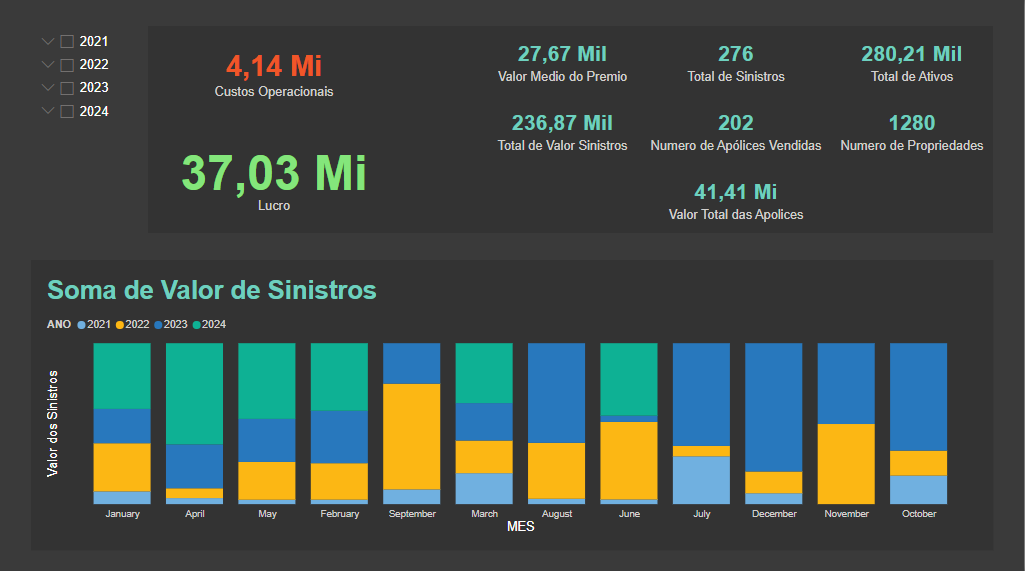
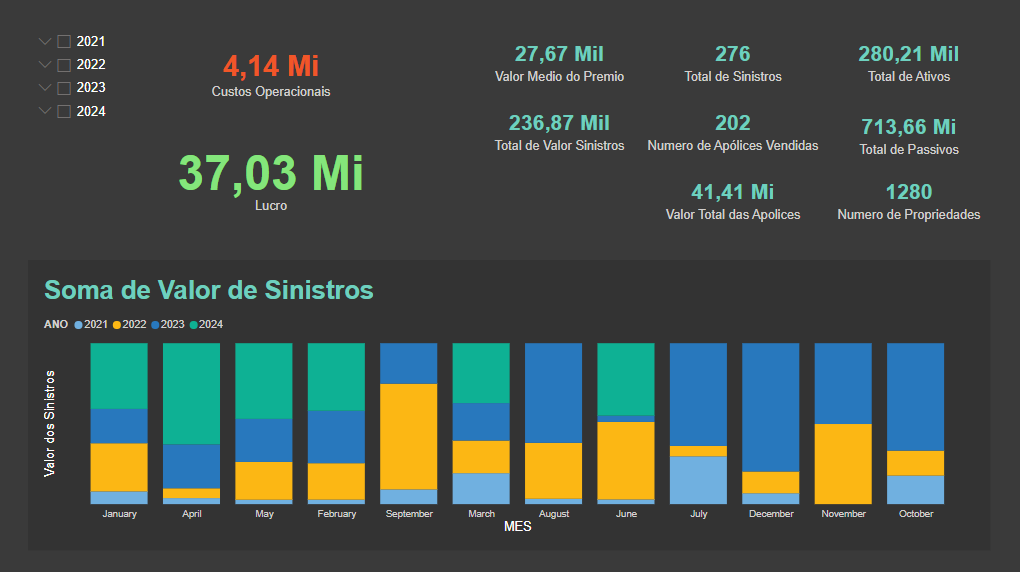
feat: Update data visualization KPI names
The commit message suggests updating the names of the KPIs related to data visualization.

diff --git a/docs/dataviz.md b/docs/dataviz.md
@@ -10,18 +10,16 @@ Essa abordagem permite que o dashboard tenha acesso aos dados atualizados e de a
 
 Aqui estão as KPIs que foram desenvolvidas para análise dos dados:
 
-- Prêmio Total Coletado (PremioTotalColetado)
-- Total de Sinistros Pagos (TotalSinistrosPagos)
-- Custos Operacionais (CustosOperacionais)
+- Total de Valor de Sinistros
+- Custos Operacionais
 - Lucro (Lucro)
-- Total de Valor de Sinistro (TotalValueOfClaims)
-- Valor Total das Apólices (TotalValueOfPolicies)
-- Número de Apólices Vendidas (NumberOfPoliciesSold)
-- Valor Médio de Prêmio (AveragePremiumValue)
-- Número de Sinistros (NumberOfClaims)
-- Total de Ativos (TotalAssetsValue)
-- Total de Passivos (TotalLiabilitiesValue)
-- Número Total de Imóveis (NumberOfProperties)
+- Valor Total das Apólices
+- Número de Apólices Vendidas
+- Valor Médio de Prêmio
+- Número de Sinistros
+- Total de Ativos
+- Total de Passivos
+- Número Total de Imóveis
 
 Essas KPIs fornecem insights importantes sobre o desempenho e a saúde do negócio de seguros de imóveis.
 
